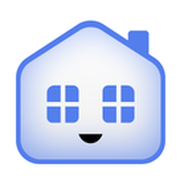
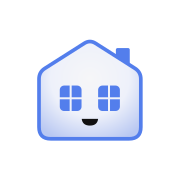
style(webapp): icona della Home piu' piccola con piu' bianco attorno, scheletri del post piu' scuri

diff --git a/src/components/platform/SocialShare.tsx b/src/components/platform/SocialShare.tsx
@@ -299,7 +299,7 @@ function PostView({ build, width }: { build: Slide | null; width: number }) {
   const h = Math.round(width * (build?.size.h ?? 1350) / (build?.size.w ?? 1080));
   return (
     <div className="relative overflow-hidden rounded-[inherit]" style={{ width, height: h }}>
-      {!ok && <div className="absolute inset-0 animate-pulse bg-black/[.06]" />}
+      {!ok && <div className="absolute inset-0 animate-pulse bg-black/[.11]" />}
       <div ref={ref} className={`pointer-events-none transition-opacity duration-[600ms] ${ok ? 'opacity-100' : 'opacity-0'}`} />
     </div>
   );
@@ -337,7 +337,7 @@ function MorphPost({ build, boxW, boxH, fw, fh }: { build: Slide | null; boxW: n
   const d = build ? fit(build.size.w, build.size.h) : fit(fw, fh);
   return (
     <div className={`relative overflow-hidden rounded-2xl shadow-md ring-1 ring-black/5 ease-smooth motion-reduce:transition-none ${morph ? 'transition-[width,height]' : ''}`} style={{ width: d.w, height: d.h }}>
-      <div ref={pulse} className="absolute inset-0 animate-pulse bg-black/[.06]" />
+      <div ref={pulse} className="absolute inset-0 animate-pulse bg-black/[.11]" />
       <div ref={ref} className="absolute inset-0" />
     </div>
   );
@@ -994,7 +994,7 @@ function SocialShare({ project, photos: srcs, onClose }: { project: ProjectData;
             // scheletro del post nella forma del formato scelto (alta, quadrata, verticale) finche' non c'e' la foto
             <span className="relative block overflow-hidden rounded-2xl bg-white shadow-sm ring-1 ring-black/5 ease-smooth transition-[width,height]"
               style={{ width: Math.round(fmt.w * Math.min((boxW - 24) / fmt.w, (boxH - 24) / fmt.h)), height: Math.round(fmt.h * Math.min((boxW - 24) / fmt.w, (boxH - 24) / fmt.h)) }}>
-              <span className="absolute inset-0 animate-pulse bg-black/[.06]" />
+              <span className="absolute inset-0 animate-pulse bg-black/[.11]" />
               <span className="absolute left-[8%] top-[7%] h-[5%] w-[26%] animate-pulse rounded-full bg-white/80" />
               <span className="absolute inset-x-[8%] bottom-[8%] flex flex-col gap-[6%]" style={{ height: '30%' }}>
                 <span className="h-[18%] w-4/5 animate-pulse rounded-full bg-white/80" />
